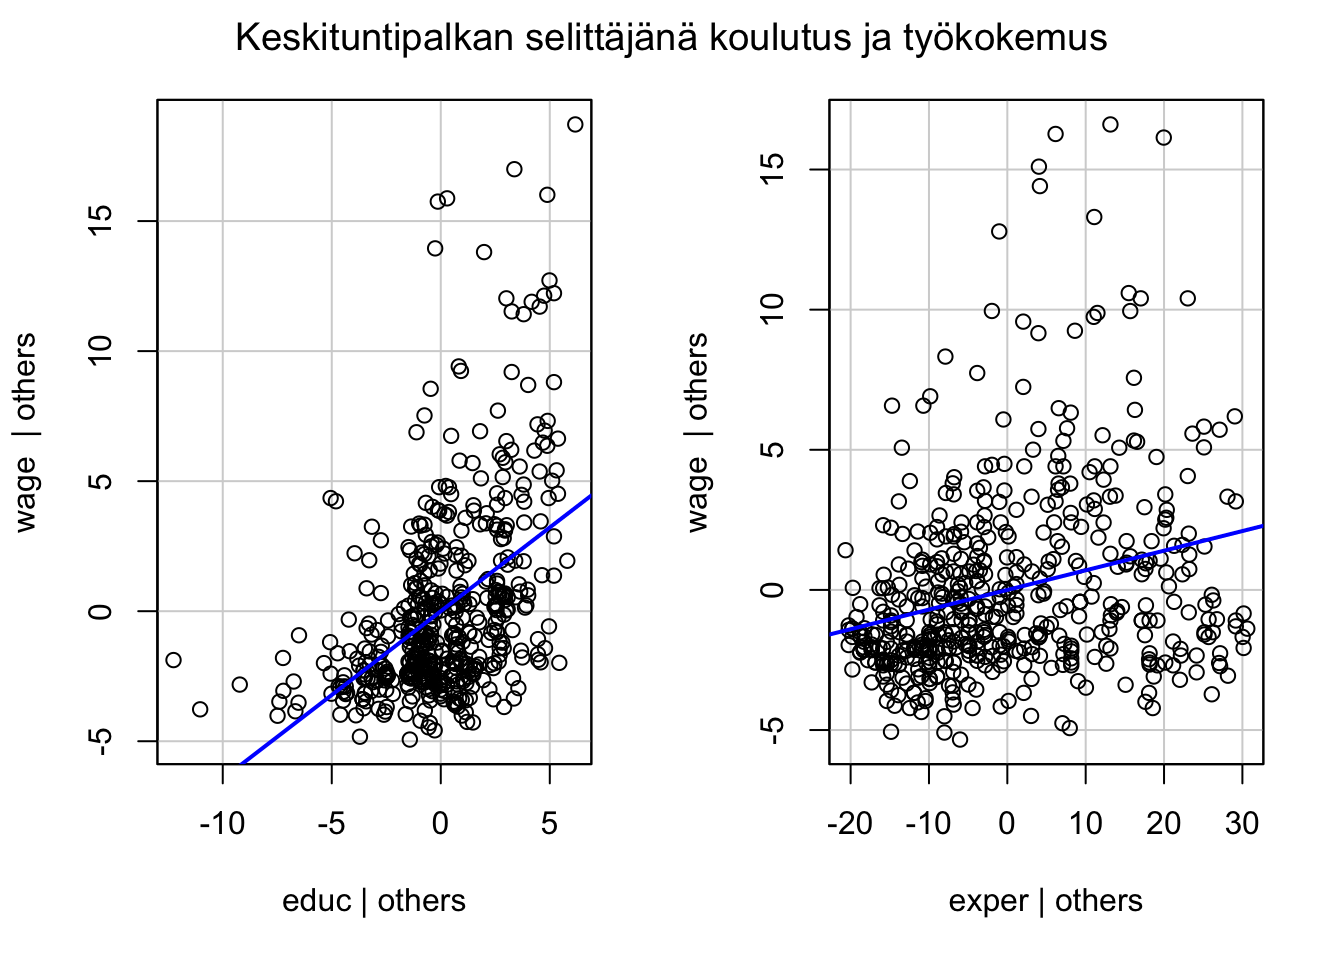
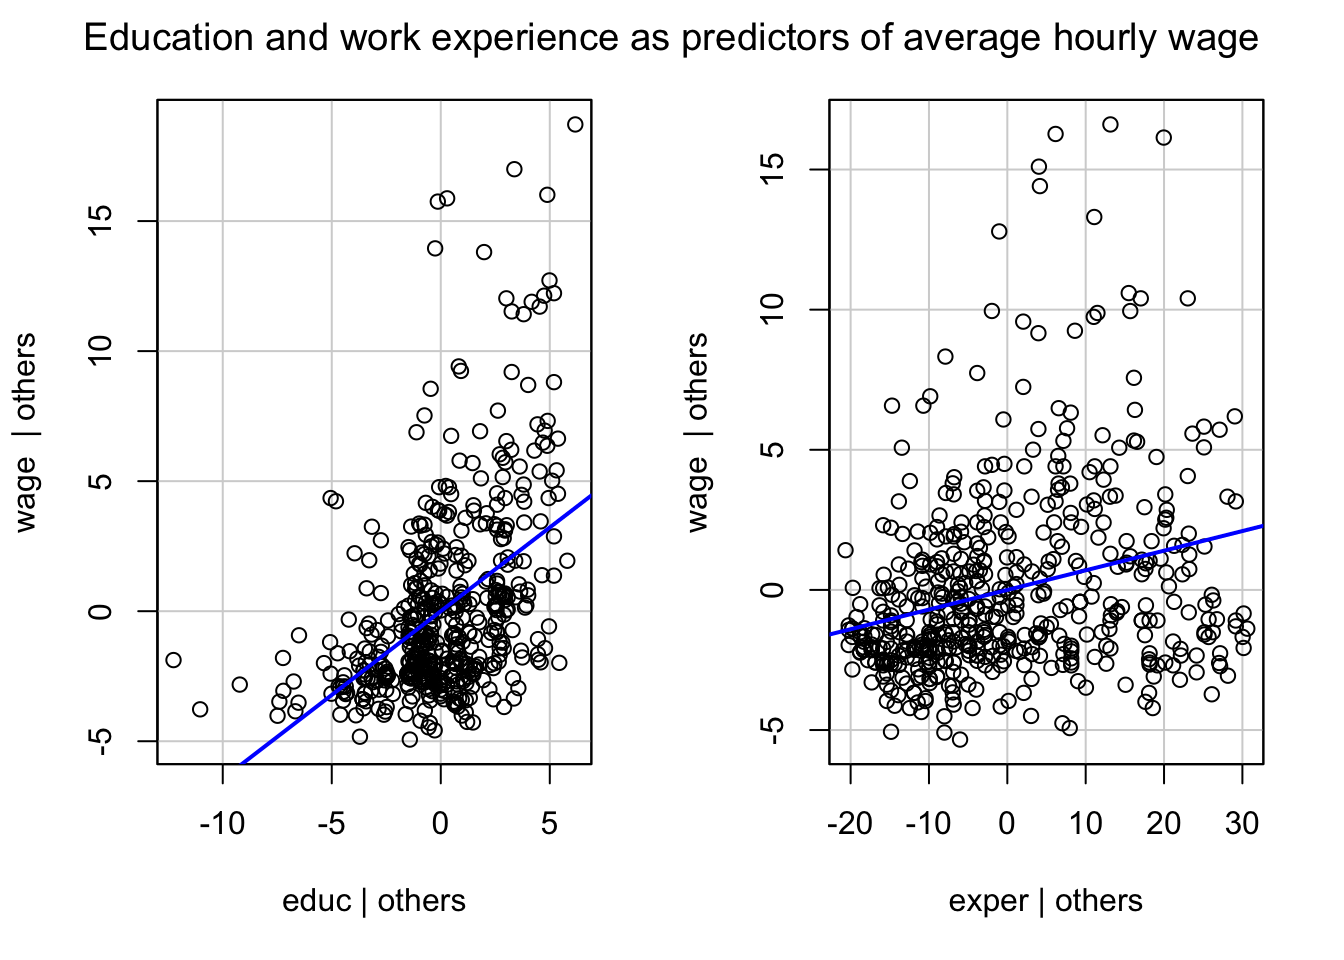
translated into English

Changed region(s): [[0.0625, 0.0312, 0.9375, 0.0625]]

diff --git a/docs/Regressioanalyysi.html b/docs/Regressioanalyysi.html
@@ -7,7 +7,7 @@
 <meta name="viewport" content="width=device-width, initial-scale=1.0, user-scalable=yes">
 
 
-<title>Regressioanalyysi keskituntipalkasta</title>
+<title>Regression Analysis of Average Hourly Wage</title>
 <style>
 code{white-space: pre-wrap;}
 span.smallcaps{font-variant: small-caps;}
@@ -118,16 +118,16 @@ pre > code.sourceCode > span > a:first-child::before { text-decoration: underlin
     <h2 id="toc-title">On this page</h2>
    
   <ul>
-  <li><a href="#tiivistelmä" id="toc-tiivistelmä" class="nav-link active" data-scroll-target="#tiivistelmä">Tiivistelmä</a></li>
-  <li><a href="#aineisto-ja-tutkimuskysymys" id="toc-aineisto-ja-tutkimuskysymys" class="nav-link" data-scroll-target="#aineisto-ja-tutkimuskysymys">Aineisto ja tutkimuskysymys</a></li>
-  <li><a href="#regressiomallin-sovittaminen" id="toc-regressiomallin-sovittaminen" class="nav-link" data-scroll-target="#regressiomallin-sovittaminen">Regressiomallin sovittaminen</a>
+  <li><a href="#summary" id="toc-summary" class="nav-link active" data-scroll-target="#summary">Summary</a></li>
+  <li><a href="#data-and-research-question" id="toc-data-and-research-question" class="nav-link" data-scroll-target="#data-and-research-question">Data and Research Question</a></li>
+  <li><a href="#fitting-the-regression-model" id="toc-fitting-the-regression-model" class="nav-link" data-scroll-target="#fitting-the-regression-model">Fitting the Regression Model</a>
   <ul class="collapse">
-  <li><a href="#koulutus-ja-tuntipalkka" id="toc-koulutus-ja-tuntipalkka" class="nav-link" data-scroll-target="#koulutus-ja-tuntipalkka">Koulutus ja tuntipalkka</a></li>
-  <li><a href="#potentiaalinen-työkokemus-ja-tuntipalkka" id="toc-potentiaalinen-työkokemus-ja-tuntipalkka" class="nav-link" data-scroll-target="#potentiaalinen-työkokemus-ja-tuntipalkka">Potentiaalinen työkokemus ja tuntipalkka</a></li>
-  <li><a href="#koulutus-ja-työkokemus-yhdessä" id="toc-koulutus-ja-työkokemus-yhdessä" class="nav-link" data-scroll-target="#koulutus-ja-työkokemus-yhdessä">Koulutus ja työkokemus yhdessä</a></li>
+  <li><a href="#education-and-hourly-wage" id="toc-education-and-hourly-wage" class="nav-link" data-scroll-target="#education-and-hourly-wage">Education and Hourly Wage</a></li>
+  <li><a href="#potential-work-experience-and-hourly-wage" id="toc-potential-work-experience-and-hourly-wage" class="nav-link" data-scroll-target="#potential-work-experience-and-hourly-wage">Potential Work Experience and Hourly Wage</a></li>
+  <li><a href="#education-and-work-experience-together" id="toc-education-and-work-experience-together" class="nav-link" data-scroll-target="#education-and-work-experience-together">Education and Work Experience Together</a></li>
   </ul></li>
-  <li><a href="#selitettävyys" id="toc-selitettävyys" class="nav-link" data-scroll-target="#selitettävyys">Selitettävyys</a></li>
-  <li><a href="#yhteenveto" id="toc-yhteenveto" class="nav-link" data-scroll-target="#yhteenveto">Yhteenveto</a></li>
+  <li><a href="#explanatory-power" id="toc-explanatory-power" class="nav-link" data-scroll-target="#explanatory-power">Explanatory Power</a></li>
+  <li><a href="#summary-1" id="toc-summary-1" class="nav-link" data-scroll-target="#summary-1">Summary</a></li>
   </ul>
 </nav>
     </div>
@@ -136,7 +136,7 @@ pre > code.sourceCode > span > a:first-child::before { text-decoration: underlin
 
 <header id="title-block-header" class="quarto-title-block default">
 <div class="quarto-title">
-<h1 class="title">Regressioanalyysi keskituntipalkasta</h1>
+<h1 class="title">Regression Analysis of Average Hourly Wage</h1>
 </div>
 
 
@@ -153,44 +153,44 @@ pre > code.sourceCode > span > a:first-child::before { text-decoration: underlin
 </header>
 
 
-<section id="tiivistelmä" class="level2">
-<h2 class="anchored" data-anchor-id="tiivistelmä">Tiivistelmä</h2>
-<p>Tässä työssä analysoidaan vuonna 1976 tehtyä aineistoa (wage1) ja tarkastellaan, miten koulutuksen pituus ja työkokemus liittyvät keskituntipalkkaan.</p>
-<p>Analyysi etenee yksinkertaisista regressiomalleista monimuuttujaiseen malliin, jossa koulutuksen ja työkokemuksen vaikutuksia arvioidaan samanaikaisesti. Lisäksi tuloksia havainnollistetaan graafisesti ja mallien selitysvoimaa vertaillaan.</p>
-<p>Työn tarkoituksena on osoittaa perusvalmiudet tilastolliseen mallintamiseen R:llä, tulosten tulkintaan sekä analyysin selkeään raportointiin.</p>
+<section id="summary" class="level2">
+<h2 class="anchored" data-anchor-id="summary">Summary</h2>
+<p>This work analyzes data from 1976 (wage1) and examines how the length of education and work experience relate to average hourly wage.</p>
+<p>The analysis progresses from simple regression models to a multivariate model, where the effects of education and work experience are assessed simultaneously. In addition, results are illustrated graphically and the explanatory power of the models is compared.</p>
+<p>The purpose of this work is to demonstrate basic skills in statistical modeling with R, interpretation of results, and clear reporting of the analysis.</p>
 </section>
-<section id="aineisto-ja-tutkimuskysymys" class="level2">
-<h2 class="anchored" data-anchor-id="aineisto-ja-tutkimuskysymys">Aineisto ja tutkimuskysymys</h2>
-<p>Analyysissä käytetään <code>wage1</code>-aineistoa, joka sisältää tietoja 526 henkilöstä vuodelta 1976. Aineistossa on muun muassa tietoja keskituntipalkasta, asuinpaikasta, koulutuksen määrästä jne.</p>
-<p>Tutkimuskysymys on: Voidaanko (ja jos voidaan niin miten hyvin) keskituntipalkkaa selittää koulutuksella ja työkokemuksella, erikseen ja yhdessä?</p>
+<section id="data-and-research-question" class="level2">
+<h2 class="anchored" data-anchor-id="data-and-research-question">Data and Research Question</h2>
+<p>The analysis uses the <code>wage1</code> dataset, which contains information on 526 individuals from 1976. The dataset includes, among other things, information on average hourly wage, place of residence, amount of education, etc.</p>
+<p>The research question is: Can (and if so, how well) average hourly wage be explained by education and work experience, separately and together?</p>
 </section>
-<section id="regressiomallin-sovittaminen" class="level2">
-<h2 class="anchored" data-anchor-id="regressiomallin-sovittaminen">Regressiomallin sovittaminen</h2>
-<p>Estimoidaan lineaariset regressiomallit tutkimuskysymyksien tarkasteluun. Havainnollistetaan tilanteita sekä visuaalisesti että tilastollisesti</p>
-<section id="koulutus-ja-tuntipalkka" class="level3">
-<h3 class="anchored" data-anchor-id="koulutus-ja-tuntipalkka">Koulutus ja tuntipalkka</h3>
+<section id="fitting-the-regression-model" class="level2">
+<h2 class="anchored" data-anchor-id="fitting-the-regression-model">Fitting the Regression Model</h2>
+<p>We estimate linear regression models to examine the research questions. We illustrate the situations both visually and statistically</p>
+<section id="education-and-hourly-wage" class="level3">
+<h3 class="anchored" data-anchor-id="education-and-hourly-wage">Education and Hourly Wage</h3>
 <div class="cell">
 <details open="" class="code-fold">
 <summary>Code</summary>
 <div class="code-copy-outer-scaffold"><div class="sourceCode cell-code" id="cb1"><pre class="sourceCode r code-with-copy"><code class="sourceCode r"><span id="cb1-1"><a href="#cb1-1" aria-hidden="true" tabindex="-1"></a>fit1 <span class="ot">&lt;-</span> <span class="fu">lm</span>(wage <span class="sc">~</span> educ, <span class="at">data =</span> wage1)</span>
 <span id="cb1-2"><a href="#cb1-2" aria-hidden="true" tabindex="-1"></a><span class="fu">plot</span>(wage1<span class="sc">$</span>educ, wage1<span class="sc">$</span>wage, </span>
-<span id="cb1-3"><a href="#cb1-3" aria-hidden="true" tabindex="-1"></a>     <span class="at">main =</span> <span class="st">"Koulutuksen pituus ja keskituntipalkka vuonna 1976"</span>,</span>
-<span id="cb1-4"><a href="#cb1-4" aria-hidden="true" tabindex="-1"></a>     <span class="at">xlab =</span> <span class="st">"Koulutuksen pituus vuosissa"</span>,</span>
-<span id="cb1-5"><a href="#cb1-5" aria-hidden="true" tabindex="-1"></a>     <span class="at">ylab =</span> <span class="st">"Keskituntipalkka"</span>)</span>
+<span id="cb1-3"><a href="#cb1-3" aria-hidden="true" tabindex="-1"></a>     <span class="at">main =</span> <span class="st">"Length of education and average hourly wage in 1976"</span>,</span>
+<span id="cb1-4"><a href="#cb1-4" aria-hidden="true" tabindex="-1"></a>     <span class="at">xlab =</span> <span class="st">"Length of education in years"</span>,</span>
+<span id="cb1-5"><a href="#cb1-5" aria-hidden="true" tabindex="-1"></a>     <span class="at">ylab =</span> <span class="st">"Average hourly wage"</span>)</span>
 <span id="cb1-6"><a href="#cb1-6" aria-hidden="true" tabindex="-1"></a><span class="fu">abline</span>(fit1)</span></code></pre></div><button title="Copy to Clipboard" class="code-copy-button"><i class="bi"></i></button></div>
 </details>
 <div class="cell-output-display">
 <div class="quarto-figure quarto-figure-center">
 <figure class="figure">
 <p><img src="Regressioanalyysi_files/figure-html/plot-educ-1.png" class="img-fluid figure-img" width="672"></p>
-<figcaption>Hajontakuvio keskituntipalkasta suhteessa koulutuksen pituuteen</figcaption>
+<figcaption>Scatter plot of average hourly wage relative to length of education</figcaption>
 </figure>
 </div>
 </div>
 </div>
-<p>Hajontakuvio paljastaa meille, että lineaarinen malli näyttää positiivisen yhteyden koulutuksen pituuden ja tuntipalkan välillä. Sovitettu regressiosuora nousee ylöspäin, mikä viittaa siihen, että pidemmällä koulutuksella on keskimäärin positiivinen yhteys palkkaan, mikä tuntuukin hyvin intuitiiviselta.</p>
-<p>Kuitenkin havaitaan, että residuaalit ovat isoja ja pitempi koulutus näyttää kasvattavan poikkeamia. Toisin sanoen vaihtelu on paljon suurempaa, kun koulutuksen pituus kasvaa. Tämä tarkoittaa, että koulutus selittää tuntipalkkaa positiivisesti, mutta sen myötä varianssi havaintojen välillä kasvaa.</p>
-<p>Tarkastellaan tätä tilastollisesti:</p>
+<p>The scatter plot reveals to us that the linear model shows a positive relationship between the length of education and hourly wage. The fitted regression line slopes upward, which suggests that longer education has on average a positive relationship with wage, which seems very intuitive.</p>
+<p>However, it is observed that the residuals are large and longer education appears to increase deviations. In other words, variation is much greater when the length of education increases. This means that education explains hourly wage positively, but along with it, the variance between observations increases.</p>
+<p>Let us examine this statistically:</p>
 <div class="cell">
 <div class="cell-output cell-output-stdout">
 <pre><code>
@@ -213,33 +213,33 @@ Multiple R-squared:  0.1648,    Adjusted R-squared:  0.1632
 F-statistic: 103.4 on 1 and 524 DF,  p-value: &lt; 2.2e-16</code></pre>
 </div>
 </div>
-<p>Tulokset osoittavat tilastollisesti merkitsevän positiivisen yhteyden. Testisuure on noin 103, mikä on valtavan suuri ja hylkää vahvasti nollahypoteesin siitä, että yhteyttä ei ole. R²-kerroin kertoo, mikä osuus palkkojen vaihtelusta selittyy koulutuksella.</p>
-<p>Siitä huolimatta on huomioitava, että suuret residuaalit viittaavat siihen, että kokonaistuntiansioon vaikuttaa selkeästi muitakin tekijöitä kuin koulutus.</p>
+<p>The results show a statistically significant positive relationship. The test statistic is approximately 103, which is extremely large and strongly rejects the null hypothesis that there is no relationship. The R² coefficient tells us what proportion of the variation in wages is explained by education.</p>
+<p>Nevertheless, it should be noted that the large residuals suggest that clearly other factors besides education affect total hourly earnings.</p>
 </section>
-<section id="potentiaalinen-työkokemus-ja-tuntipalkka" class="level3">
-<h3 class="anchored" data-anchor-id="potentiaalinen-työkokemus-ja-tuntipalkka">Potentiaalinen työkokemus ja tuntipalkka</h3>
-<p>Selvennetään aluksi, mitä tarkoittaa <em>potentiaalinen</em> työkokemus. Se tarkoittaa sitä aikaa, jonka henkilön on ollut mahdollista olla työssä. Se ei siis suoraan kerro meille sitä aikaa, jonka henkilö on ollut oikeasti töissä.</p>
+<section id="potential-work-experience-and-hourly-wage" class="level3">
+<h3 class="anchored" data-anchor-id="potential-work-experience-and-hourly-wage">Potential Work Experience and Hourly Wage</h3>
+<p>Let us first clarify what <em>potential</em> work experience means. It refers to the time during which a person has been able to be in the workforce. It does not directly tell us the time during which the person has actually been working.</p>
 <div class="cell">
 <details open="" class="code-fold">
 <summary>Code</summary>
 <div class="code-copy-outer-scaffold"><div class="sourceCode cell-code" id="cb3"><pre class="sourceCode r code-with-copy"><code class="sourceCode r"><span id="cb3-1"><a href="#cb3-1" aria-hidden="true" tabindex="-1"></a>fit2 <span class="ot">&lt;-</span> <span class="fu">lm</span>(wage <span class="sc">~</span> exper, <span class="at">data =</span> wage1)</span>
 <span id="cb3-2"><a href="#cb3-2" aria-hidden="true" tabindex="-1"></a><span class="fu">plot</span>(wage1<span class="sc">$</span>exper, wage1<span class="sc">$</span>wage, </span>
-<span id="cb3-3"><a href="#cb3-3" aria-hidden="true" tabindex="-1"></a>     <span class="at">main =</span> <span class="st">"Työkokemus ja keskituntipalkka vuonna 1976"</span>,</span>
-<span id="cb3-4"><a href="#cb3-4" aria-hidden="true" tabindex="-1"></a>     <span class="at">xlab =</span> <span class="st">"Potentiaalisen työkokemuksen pituus vuosissa"</span>,</span>
-<span id="cb3-5"><a href="#cb3-5" aria-hidden="true" tabindex="-1"></a>     <span class="at">ylab =</span> <span class="st">"Keskituntipalkka"</span>)</span>
+<span id="cb3-3"><a href="#cb3-3" aria-hidden="true" tabindex="-1"></a>     <span class="at">main =</span> <span class="st">"Work experience and average hourly wage in 1976"</span>,</span>
+<span id="cb3-4"><a href="#cb3-4" aria-hidden="true" tabindex="-1"></a>     <span class="at">xlab =</span> <span class="st">"Length of potential work experience in years"</span>,</span>
+<span id="cb3-5"><a href="#cb3-5" aria-hidden="true" tabindex="-1"></a>     <span class="at">ylab =</span> <span class="st">"Average hourly wage"</span>)</span>
 <span id="cb3-6"><a href="#cb3-6" aria-hidden="true" tabindex="-1"></a><span class="fu">abline</span>(fit2)</span></code></pre></div><button title="Copy to Clipboard" class="code-copy-button"><i class="bi"></i></button></div>
 </details>
 <div class="cell-output-display">
 <div class="quarto-figure quarto-figure-center">
 <figure class="figure">
 <p><img src="Regressioanalyysi_files/figure-html/plot-exper-1.png" class="img-fluid figure-img" width="672"></p>
-<figcaption>Hajontakuvio keskituntipalkasta suhteessa potentiaaliseen työkokemukseen</figcaption>
+<figcaption>Scatter plot of average hourly wage relative to potential work experience</figcaption>
 </figure>
 </div>
 </div>
 </div>
-<p>(Potentiaalisen) työkokemuksen ja palkkojen välinen yhteys näyttää myös positiiviselta, mutta kuvio eroaa koulutuksesta. Hajontakuvio osoittaa, että palkat yleensä kasvavat kokemuksen myötä, mutta yhteys vaikuttaa selvästi heikommalta kuin koulutuksessa. Vaihtelu puolestaan on tässä tapauksessa jo valtavaa. Huomataan myös, että vaihtelu on suurinta noin 20–30 vuoden kohdalla ja suurin osa havainnoista on selkeästi alkupäässä.</p>
-<p>Tarkastellaan tätä tilastollisesti:</p>
+<p>The relationship between (potential) work experience and wages also appears positive, but the pattern differs from education. The scatter plot shows that wages generally increase with experience, but the relationship appears clearly weaker than with education. Variation, on the other hand, is already substantial in this case. It is also noted that variation is greatest around 20–30 years and most observations are clearly at the beginning.</p>
+<p>Let us examine this statistically:</p>
 <div class="cell">
 <div class="cell-output cell-output-stdout">
 <pre><code>
@@ -262,28 +262,28 @@ Multiple R-squared:  0.01275,   Adjusted R-squared:  0.01086
 F-statistic: 6.766 on 1 and 524 DF,  p-value: 0.009555</code></pre>
 </div>
 </div>
-<p>Testisuure on noin 6,8, mikä on reilusti pienempi kuin koulutuksessa (103). Testisuure on niin iso, että nolahypoteesi hylättäisiin kaikilla normaalilla merkitsevyystasolla. Mitä tämä kertoo? Se kertoo, että on jokin tilastollisesti merkittävä yhteys eli lineaarinen malli periaatteessa voidaan sovittaa. Siitä huolimatta varianssi on todella merkittävä ja hajontaa on kaikkialla niin paljon, että keskituntipalkan selittäminen pelkällä työkokemuksella ei ole mielekästä</p>
+<p>The test statistic is approximately 6.8, which is considerably smaller than with education (103). The test statistic is so large that the null hypothesis would be rejected at all normal significance levels. What does this tell us? It tells us that there is some statistically significant relationship, i.e., a linear model can in principle be fitted. Nevertheless, the variance is truly substantial and there is so much scatter everywhere that explaining average hourly wage with work experience alone is not meaningful.</p>
 </section>
-<section id="koulutus-ja-työkokemus-yhdessä" class="level3">
-<h3 class="anchored" data-anchor-id="koulutus-ja-työkokemus-yhdessä">Koulutus ja työkokemus yhdessä</h3>
+<section id="education-and-work-experience-together" class="level3">
+<h3 class="anchored" data-anchor-id="education-and-work-experience-together">Education and Work Experience Together</h3>
 <div class="cell">
 <details open="" class="code-fold">
 <summary>Code</summary>
 <div class="code-copy-outer-scaffold"><div class="sourceCode cell-code" id="cb5"><pre class="sourceCode r code-with-copy"><code class="sourceCode r"><span id="cb5-1"><a href="#cb5-1" aria-hidden="true" tabindex="-1"></a>fit3 <span class="ot">&lt;-</span> <span class="fu">lm</span>(wage <span class="sc">~</span> educ <span class="sc">+</span> exper, <span class="at">data =</span> wage1)</span>
-<span id="cb5-2"><a href="#cb5-2" aria-hidden="true" tabindex="-1"></a><span class="fu">avPlots</span>(fit3, <span class="at">main =</span> <span class="st">"Keskituntipalkan selittäjänä koulutus ja työkokemus"</span>, </span>
+<span id="cb5-2"><a href="#cb5-2" aria-hidden="true" tabindex="-1"></a><span class="fu">avPlots</span>(fit3, <span class="at">main =</span> <span class="st">"Education and work experience as predictors of average hourly wage"</span>, </span>
 <span id="cb5-3"><a href="#cb5-3" aria-hidden="true" tabindex="-1"></a>        <span class="at">id =</span> <span class="cn">FALSE</span>)</span></code></pre></div><button title="Copy to Clipboard" class="code-copy-button"><i class="bi"></i></button></div>
 </details>
 <div class="cell-output-display">
 <div class="quarto-figure quarto-figure-center">
 <figure class="figure">
 <p><img src="Regressioanalyysi_files/figure-html/avplots-1.png" class="img-fluid figure-img" width="672"></p>
-<figcaption>Keskituntipalkan selittäjänä koulutus ja työkokemus</figcaption>
+<figcaption>Education and work experience as predictors of average hourly wage</figcaption>
 </figure>
 </div>
 </div>
 </div>
-<p>Osittaisregressiokuvat havainnollistavat palkkojen ja kunkin selittävän muuttujan välisiä osittaisia yhteyksiä. Vasen puoli näyttää palkkojen ja koulutuksen välisen yhteyden kokemuksen vaikutuksen poistamisen jälkeen, kun taas oikea puoli näyttää palkkojen ja kokemuksen välisen yhteyden koulutuksen vaikutuksen poistamisen jälkeen.</p>
-<p>Molemmissa paneeleissa positiiviset kulmakertoimet vahvistavat, että sekä koulutuksella että kokemuksella on riippumattomat positiiviset yhteydet palkkoihin, vaikka niiden välinen korrelaatio otetaankin huomioon. Hajonta sovitettujen suorien ympärillä näissä kuvissa edustaa residuaalista vaihtelua, jota malli ei selitä.</p>
+<p>Partial regression plots illustrate the partial relationships between wages and each explanatory variable. The left side shows the relationship between wages and education after removing the effect of experience, while the right side shows the relationship between wages and experience after removing the effect of education.</p>
+<p>In both panels, the positive slopes confirm that both education and experience have independent positive relationships with wages, even when the correlation between them is taken into account. The scatter around the fitted lines in these plots represents residual variation that the model does not explain.</p>
 <div class="cell">
 <div class="cell-output cell-output-stdout">
 <pre><code>
@@ -307,29 +307,29 @@ Multiple R-squared:  0.2252,    Adjusted R-squared:  0.2222
 F-statistic: 75.99 on 2 and 523 DF,  p-value: &lt; 2.2e-16</code></pre>
 </div>
 </div>
-<p>Kolmannessa mallissa otetaan huomioon sekä koulutus että työkokemus selittävinä muuttujina. Tämä on tarpeen, koska koulutus ja kokemus saattavat olla korreloituneita ja niiden yksittäiset vaikutukset saattavat sekoittua, kun niitä tarkastellaan erikseen.</p>
+<p>In the third model, both education and work experience are taken into account as explanatory variables. This is necessary because education and experience may be correlated and their individual effects may be confounded when examined separately.</p>
 </section>
 </section>
-<section id="selitettävyys" class="level2">
-<h2 class="anchored" data-anchor-id="selitettävyys">Selitettävyys</h2>
+<section id="explanatory-power" class="level2">
+<h2 class="anchored" data-anchor-id="explanatory-power">Explanatory Power</h2>
 <div class="cell">
 <div class="cell-output cell-output-stdout">
-<pre><code>Malli 1 (vain koulutus) R²: 0.1648 </code></pre>
+<pre><code>Model 1 (education only) R²: 0.1648 </code></pre>
 </div>
 <div class="cell-output cell-output-stdout">
-<pre><code>Malli 2 (vain kokemus) R²: 0.0127 </code></pre>
+<pre><code>Model 2 (experience only) R²: 0.0127 </code></pre>
 </div>
 <div class="cell-output cell-output-stdout">
-<pre><code>Malli 3 (koulutus + kokemus) R²: 0.2252 </code></pre>
+<pre><code>Model 3 (education + experience) R²: 0.2252 </code></pre>
 </div>
 </div>
-<p>Kun tutkitaan selitettävyysastetta niin huomataan, että se on korkeimillaan silloin kun selittäjinä ovat sekä kokemus että koulutus. Huomataan myös, että aineiston pohjalta koulutus selittää ylipäätänsä keskituntipalkkaa paremmin kuin kokemus, koska sen selitysaste on korkeampi. Tämä tuntuu äsken tehdyn analyysin jälkeen luonnolliselta.</p>
+<p>When examining the degree of explanatory power, it is noted that it is highest when both experience and education are predictors. It is also noted that based on the data, education explains average hourly wage better overall than experience, because its explanatory power is higher. This seems natural after the analysis just performed.</p>
 </section>
-<section id="yhteenveto" class="level2">
-<h2 class="anchored" data-anchor-id="yhteenveto">Yhteenveto</h2>
-<p>Analyysistä saadaan useita eri ulottuvuuksia. Ensinnäkin, sekä koulutus että kokemus liittyvät yksilöllisesti korkeampiin keskituntipalkkoihin, kuten yksinkertaisissa regressiomalleissa tilastollisesti merkitsevät positiiviset kertoimet osoittavat. Toiseksi, kun muuttujia tarkastellaan yhdessä monimuuttujamallissa, molemmat pysyvät merkitsevinä palkkojen selittäjinä, mikä viittaa siihen, että ne täydentävät toisiaan palkkojen selittämisessä.</p>
-<p>Näistä havainnoista huolimatta on tärkeää huomata, että huomattava osa palkkojen vaihtelusta jää selittämättä näillä kahdella muuttujalla. R²-arvot, vaikka osoittavatkin merkityksellisiä yhteyksiä, jättävät huomattavan osan palkkojen vaihtelusta selittämättä. Tämä viittaa siihen, että muut tekijät—kuten kyvykkyys, toimiala, ammatti, sijainti tai havaitsemattomat ominaisuudet—vaikuttavat merkittävästi palkkojen määräytymiseen.</p>
-<p>Loppujen lopuksi näyttää siis siltä, että mitä enemmän lisäämme selittäjiä, sitä suurempi selitysaste lopulta on. Tätä emme voi kuitenkaan varmaksi sanoa tämän aineiston pohjalta.</p>
+<section id="summary-1" class="level2">
+<h2 class="anchored" data-anchor-id="summary-1">Summary</h2>
+<p>The analysis yields several different dimensions. First, both education and experience are individually associated with higher average hourly wages, as the statistically significant positive coefficients in the simple regression models show. Second, when the variables are examined together in a multivariate model, both remain significant predictors of wages, which suggests that they complement each other in explaining wages.</p>
+<p>Despite these observations, it is important to note that a substantial portion of the variation in wages remains unexplained by these two variables. The R² values, although they show meaningful relationships, leave a substantial portion of the variation in wages unexplained. This suggests that other factors—such as ability, industry, occupation, location, or unobserved characteristics—significantly affect wage determination.</p>
+<p>In the end, it thus appears that the more predictors we add, the greater the explanatory power ultimately is. However, we cannot say this for certain based on this dataset.</p>
 
 
 </section>
